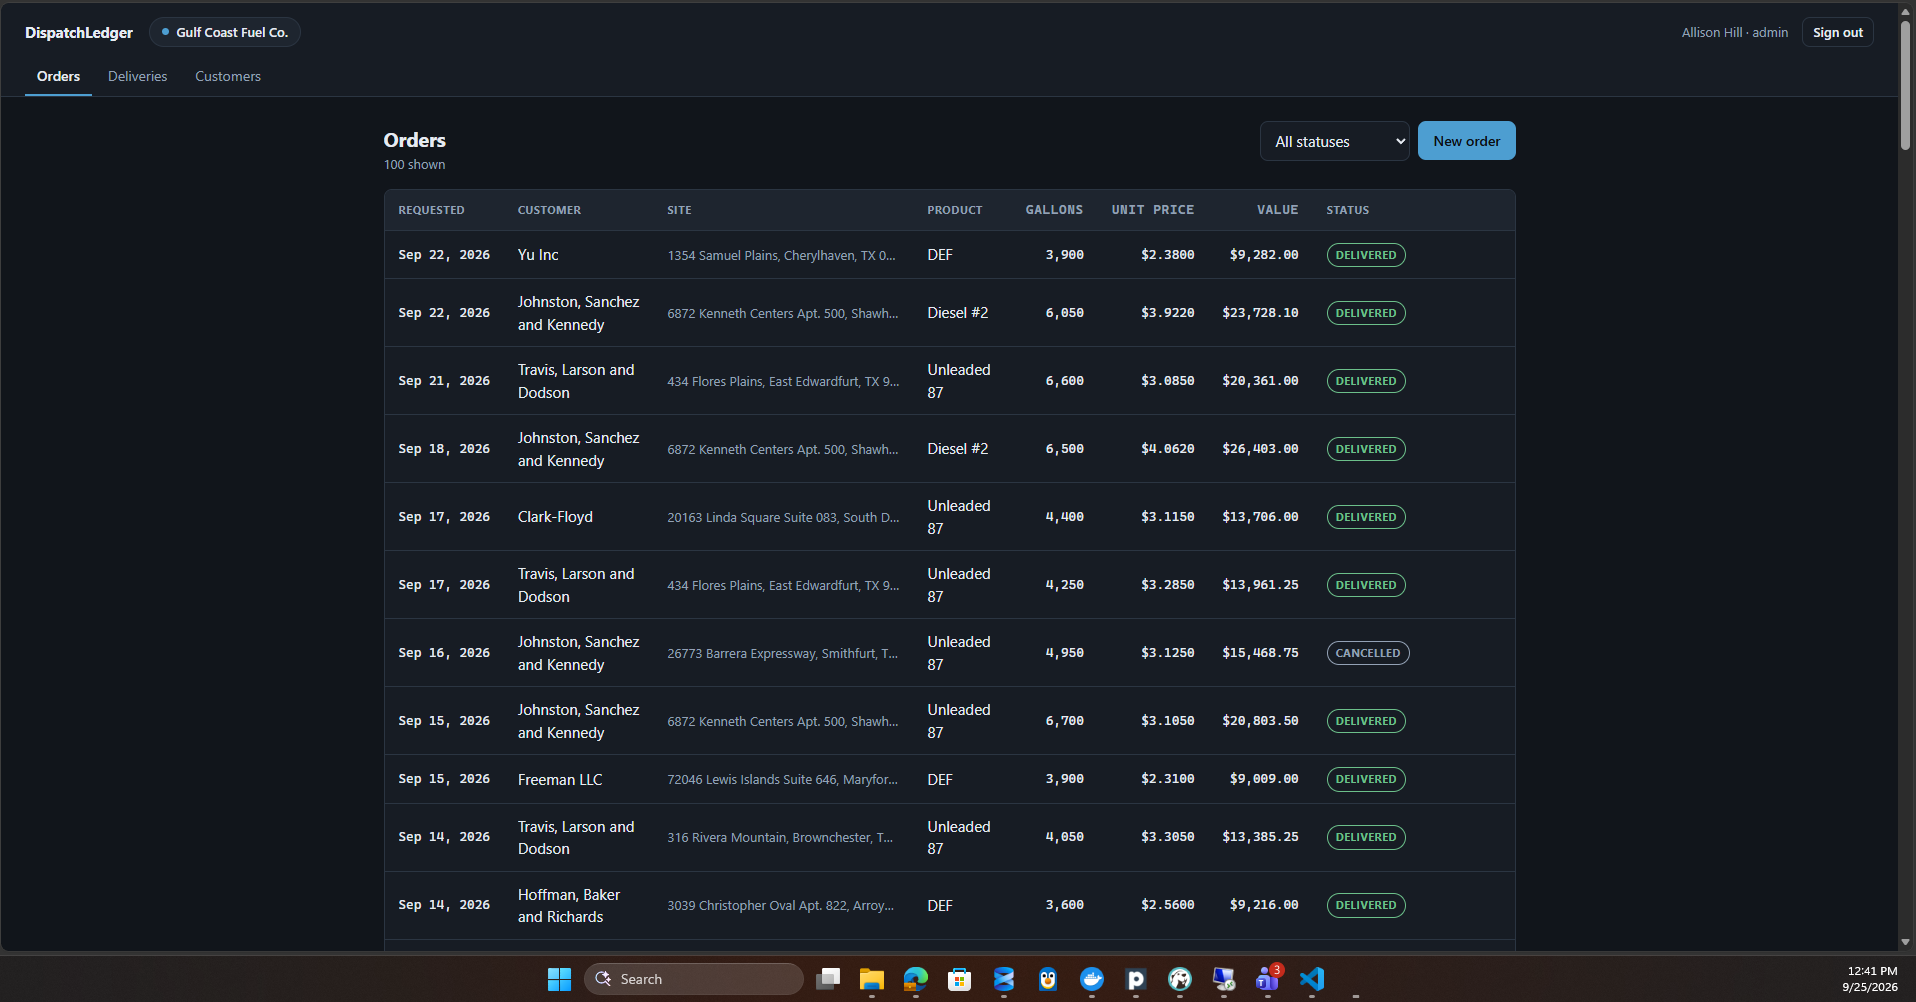
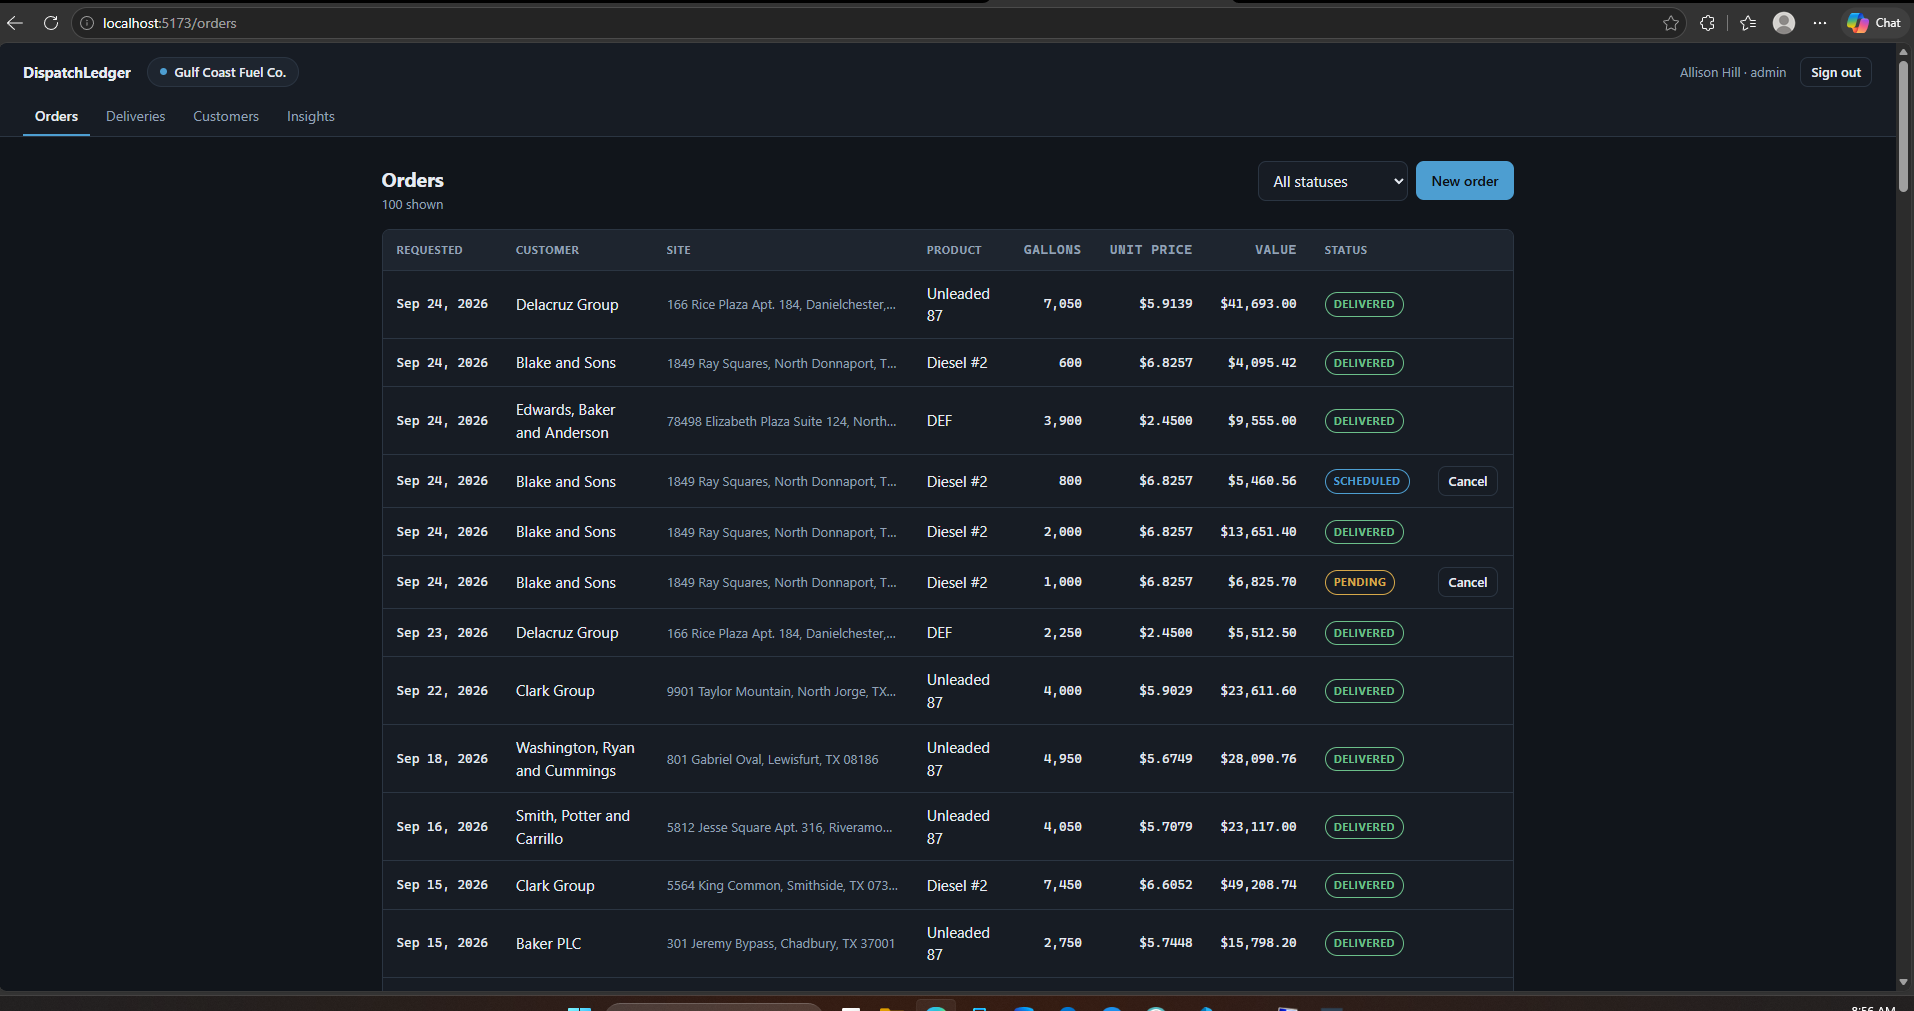
Add Insights page; derive seed prices from the EIA benchmark; add screenshots

diff --git a/README.md b/README.md
@@ -107,6 +107,16 @@ The tenant travels in the signed token, so there is no tenant parameter anywhere
 
 Interactive docs at `/docs`. Demo credentials after seeding: tenant `gulf-coast`, user `admin@gulf-coast.example.com`, password `demo1234`. Sign in as `driver1@` instead to see the same screens with fewer permissions.
 
+### The screens
+
+Completing a delivery records what actually arrived, then invoices for that amount rather than for what was ordered. Trucks routinely deliver short, so the two quantities are stored separately — and the gap between them is where fill rate comes from.
+
+![Deliveries board](docs/Deliveries-board.png)
+
+Customers carry the payment terms that set each invoice's due date, which is what drives the receivables ageing in the warehouse.
+
+![Customers](docs/customer-board.png)
+
 ## The warehouse
 
 dbt models the operational tables into a star schema, read by a third role:
